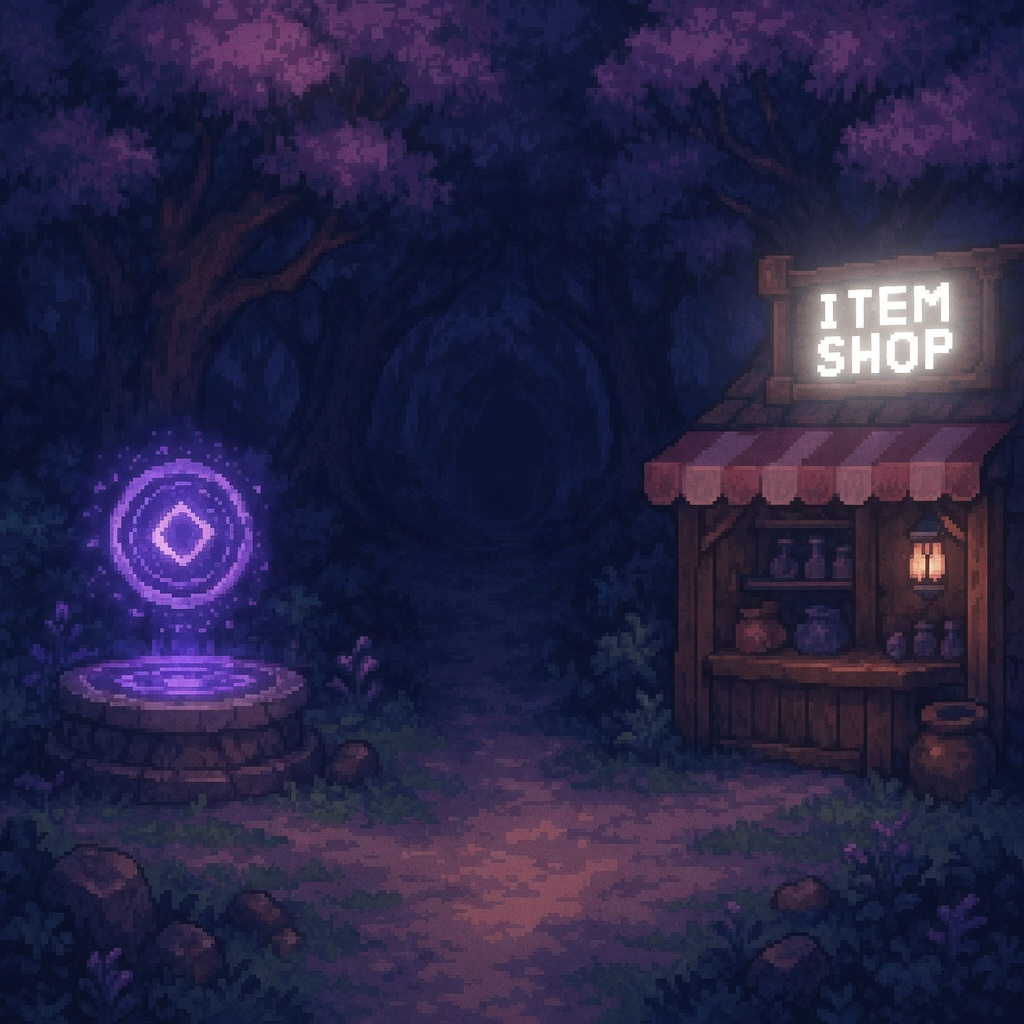
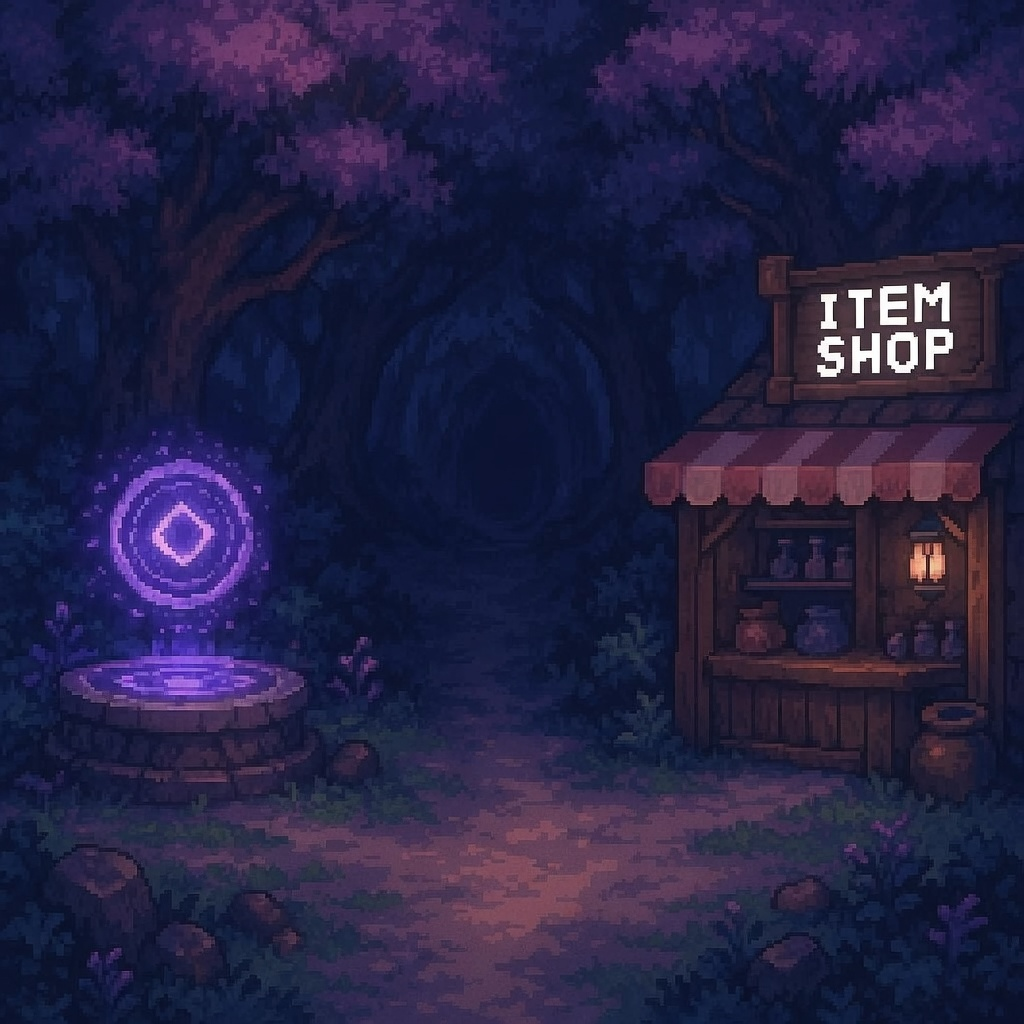
vila com hotspots, barra inferior e aviso em breve

diff --git a/game/templates/game/vila.html b/game/templates/game/vila.html
@@ -42,9 +42,9 @@
         .hotspot-fogo {
             position: fixed;
             left: 5%;
-            top: 25%;
+            top: 35%;
             width: 25%;
-            height: 55%;
+            height:60%;
             z-index: 5;
             cursor: not-allowed;
         }
@@ -52,9 +52,9 @@
         .hotspot-shop {
             position: fixed;
             right: 0%;
-            top: 15%;
+            top: 0%;
             width: 30%;
-            height: 65%;
+            height: 100%;
             z-index: 5;
             cursor: pointer;
             text-decoration: none;
@@ -62,8 +62,8 @@
 
         .hotspot-floresta {
             position: fixed;
-            left: 35%;
-            top: 30%;
+            left: 34%;
+            top: -5%;
             width: 30%;
             height: 50%;
             z-index: 5;
@@ -145,7 +145,7 @@
         }
 
         .barra-stat {
-            font-size: 0.45vw;
+            font-size: 0.7vw;
             color: #c8b090;
             letter-spacing: 1px;
         }
@@ -161,8 +161,8 @@
         }
 
         .hp-bar, .mp-bar {
-            width: 8vw;
-            height: 6px;
+            width: 10vw;
+            height: 8px;
             border: 1px solid #4a3a2a;
         }
 
@@ -184,13 +184,14 @@
             border: 2px solid #8a6020;
             color: #f5d080;
             font-family: 'Press Start 2P', monospace;
-            font-size: 0.5vw;
-            padding: 0.5rem 1rem;
+            font-size: 0.7vw;
+            padding: 0.6rem 1.2rem;
             cursor: pointer;
             text-decoration: none;
             letter-spacing: 1px;
             transition: all 0.15s;
         }
+
 
         .btn-inventario:hover {
             background: rgba(90, 60, 10, 0.9);
@@ -215,7 +216,7 @@
         /* aviso em breve */
         #aviso-fogo {
             position: fixed;
-            left: 18%;
+            left: 15%;
             top: 22%;
             z-index: 10;
             font-family: 'Press Start 2P', monospace;
@@ -245,6 +246,7 @@
     <div class="cantos-esquerdo">
         <a href="{% url 'mundo' %}" class="btn-canto">◀ MAPA MUNDO</a>
         <a href="{% url 'logout' %}" class="btn-canto">✕ SAIR</a>
+        <button onclick="history.back()" class="btn-canto">🔙 VOLTAR</button>
         <span class="btn-canto desativado">⚙ CONFIG</span>
     </div>
 
@@ -292,7 +294,7 @@
                     <div class="mp-bar-fill" style="width: {% widthratio personagem.mp_atual personagem.mp_maximo 100 %}%"></div>
                 </div>
             </div>
-            <div class="barra-stat">Gold <span>{{ personagem.gold }} 🪙</span></div>
+            <div class="barra-stat">Gold <span>{{ personagem.gold }}</span></div>
         </div>
         <a href="{% url 'inventario' %}" class="btn-inventario">🎒 INVENTÁRIO</a>
     </div>

diff --git a/game/templates/game/mapa.html b/game/templates/game/mapa.html
@@ -32,5 +32,6 @@
     {% endif %}<br><br>
 
     <a href="{% url 'logout' %}">Sair</a>
+    <button onclick="history.back()">🔙 Voltar</button>
 </body>
 </html>
